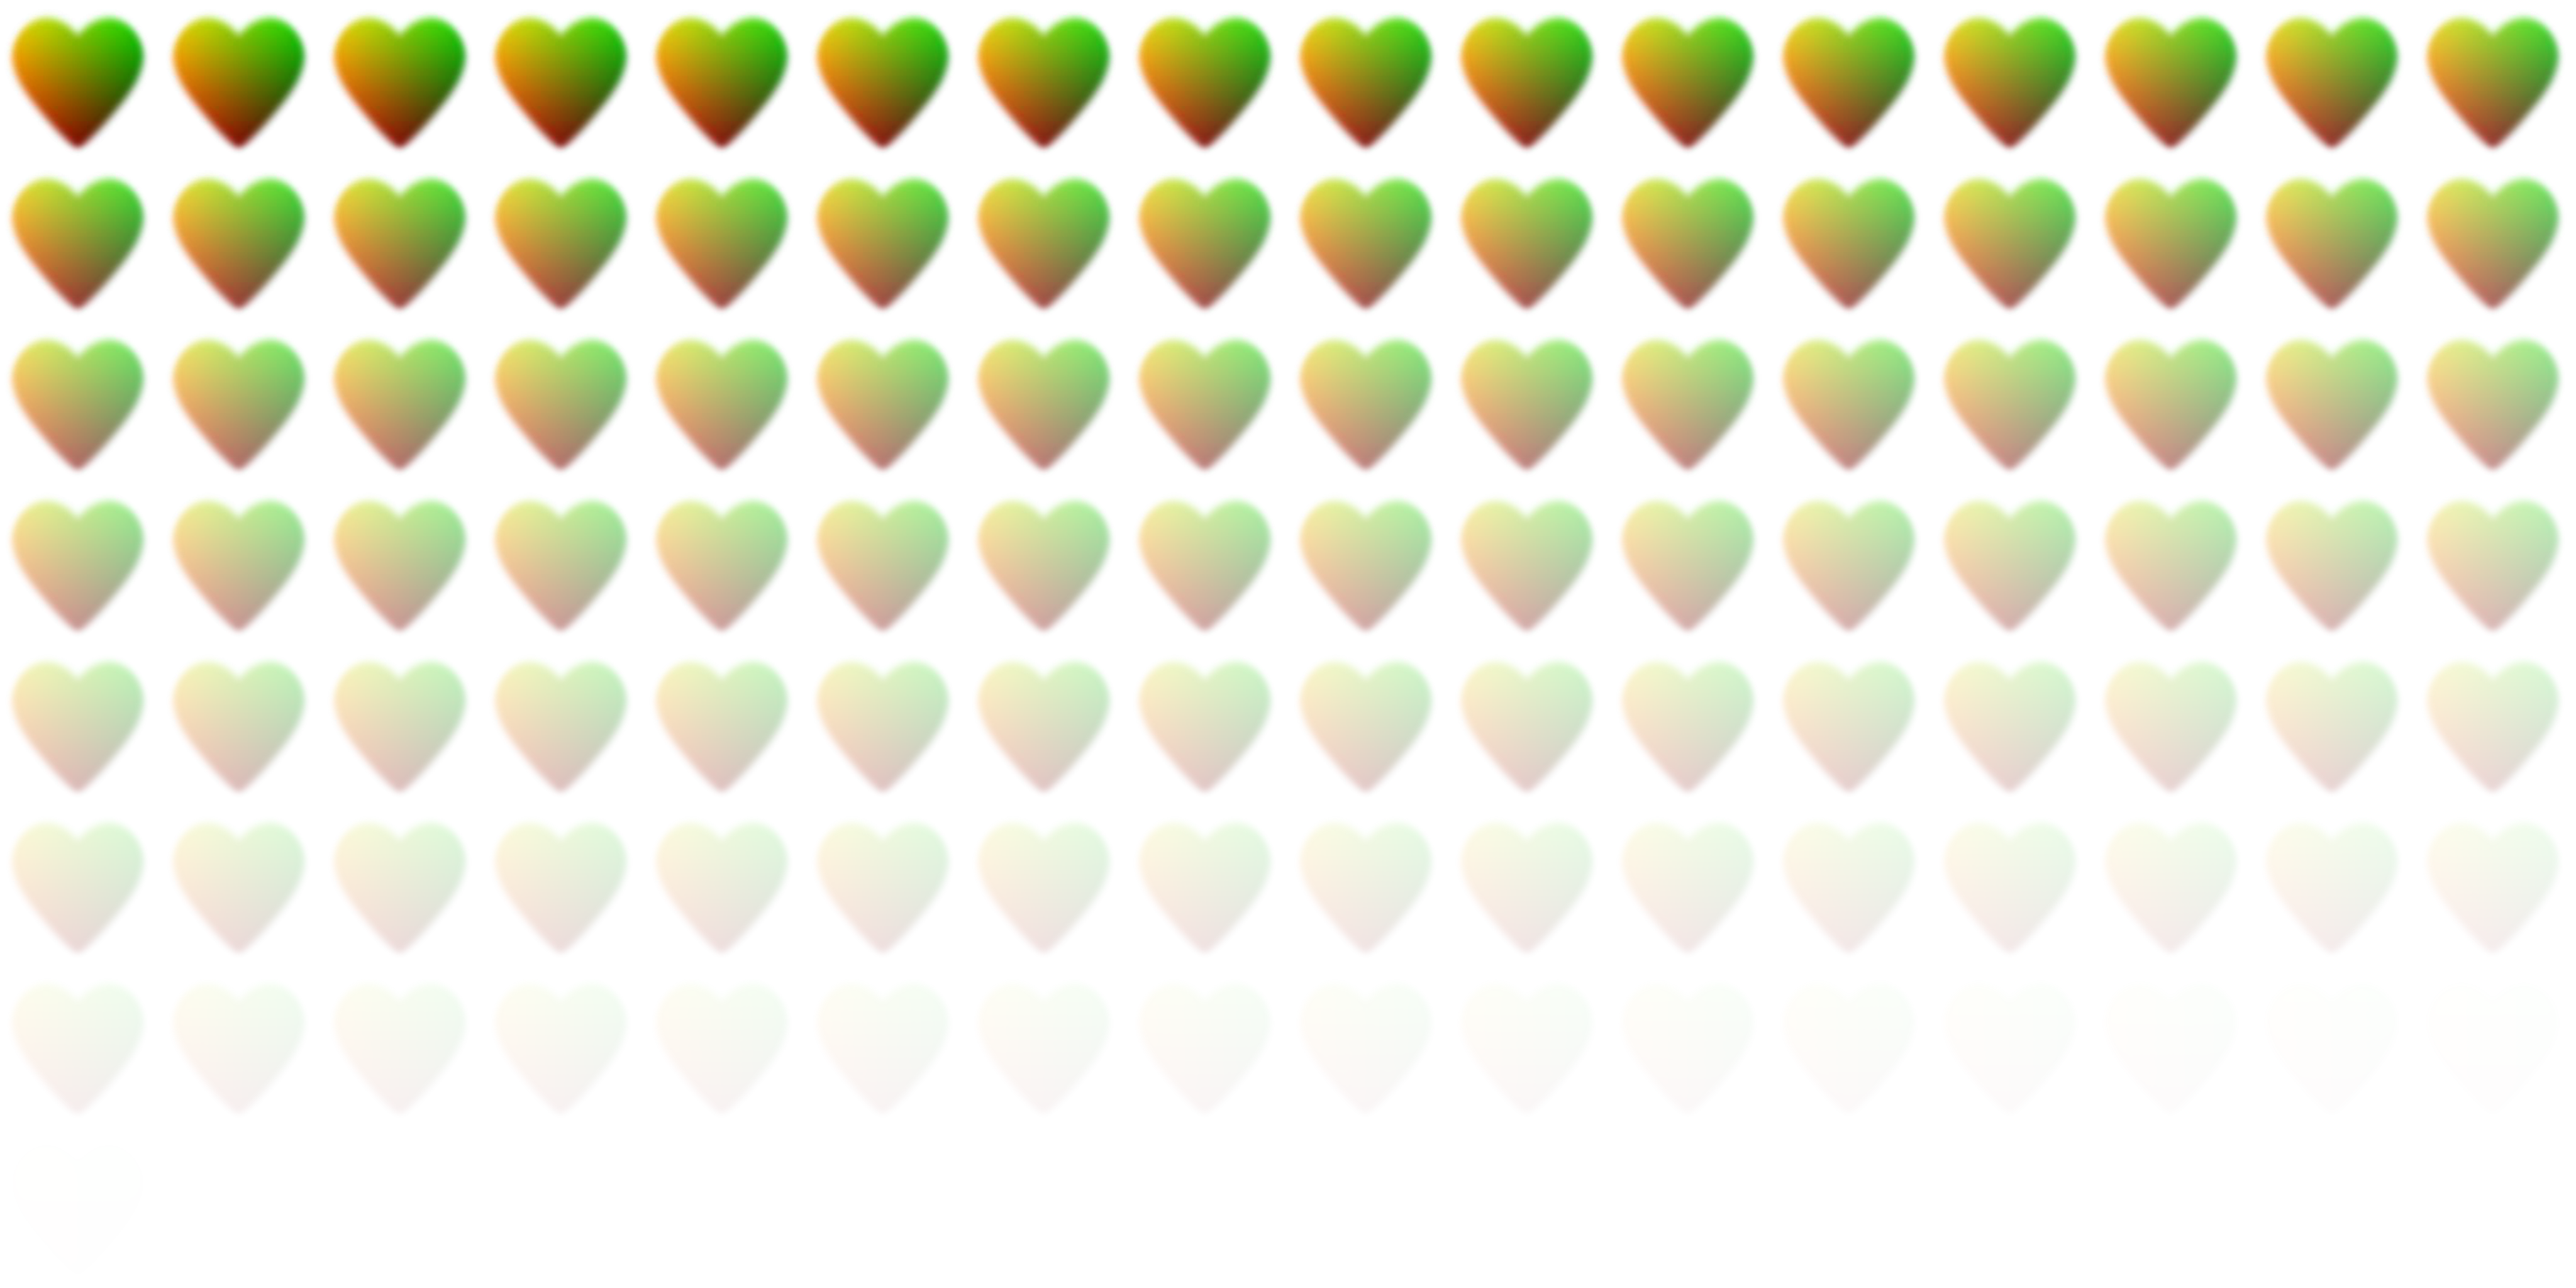
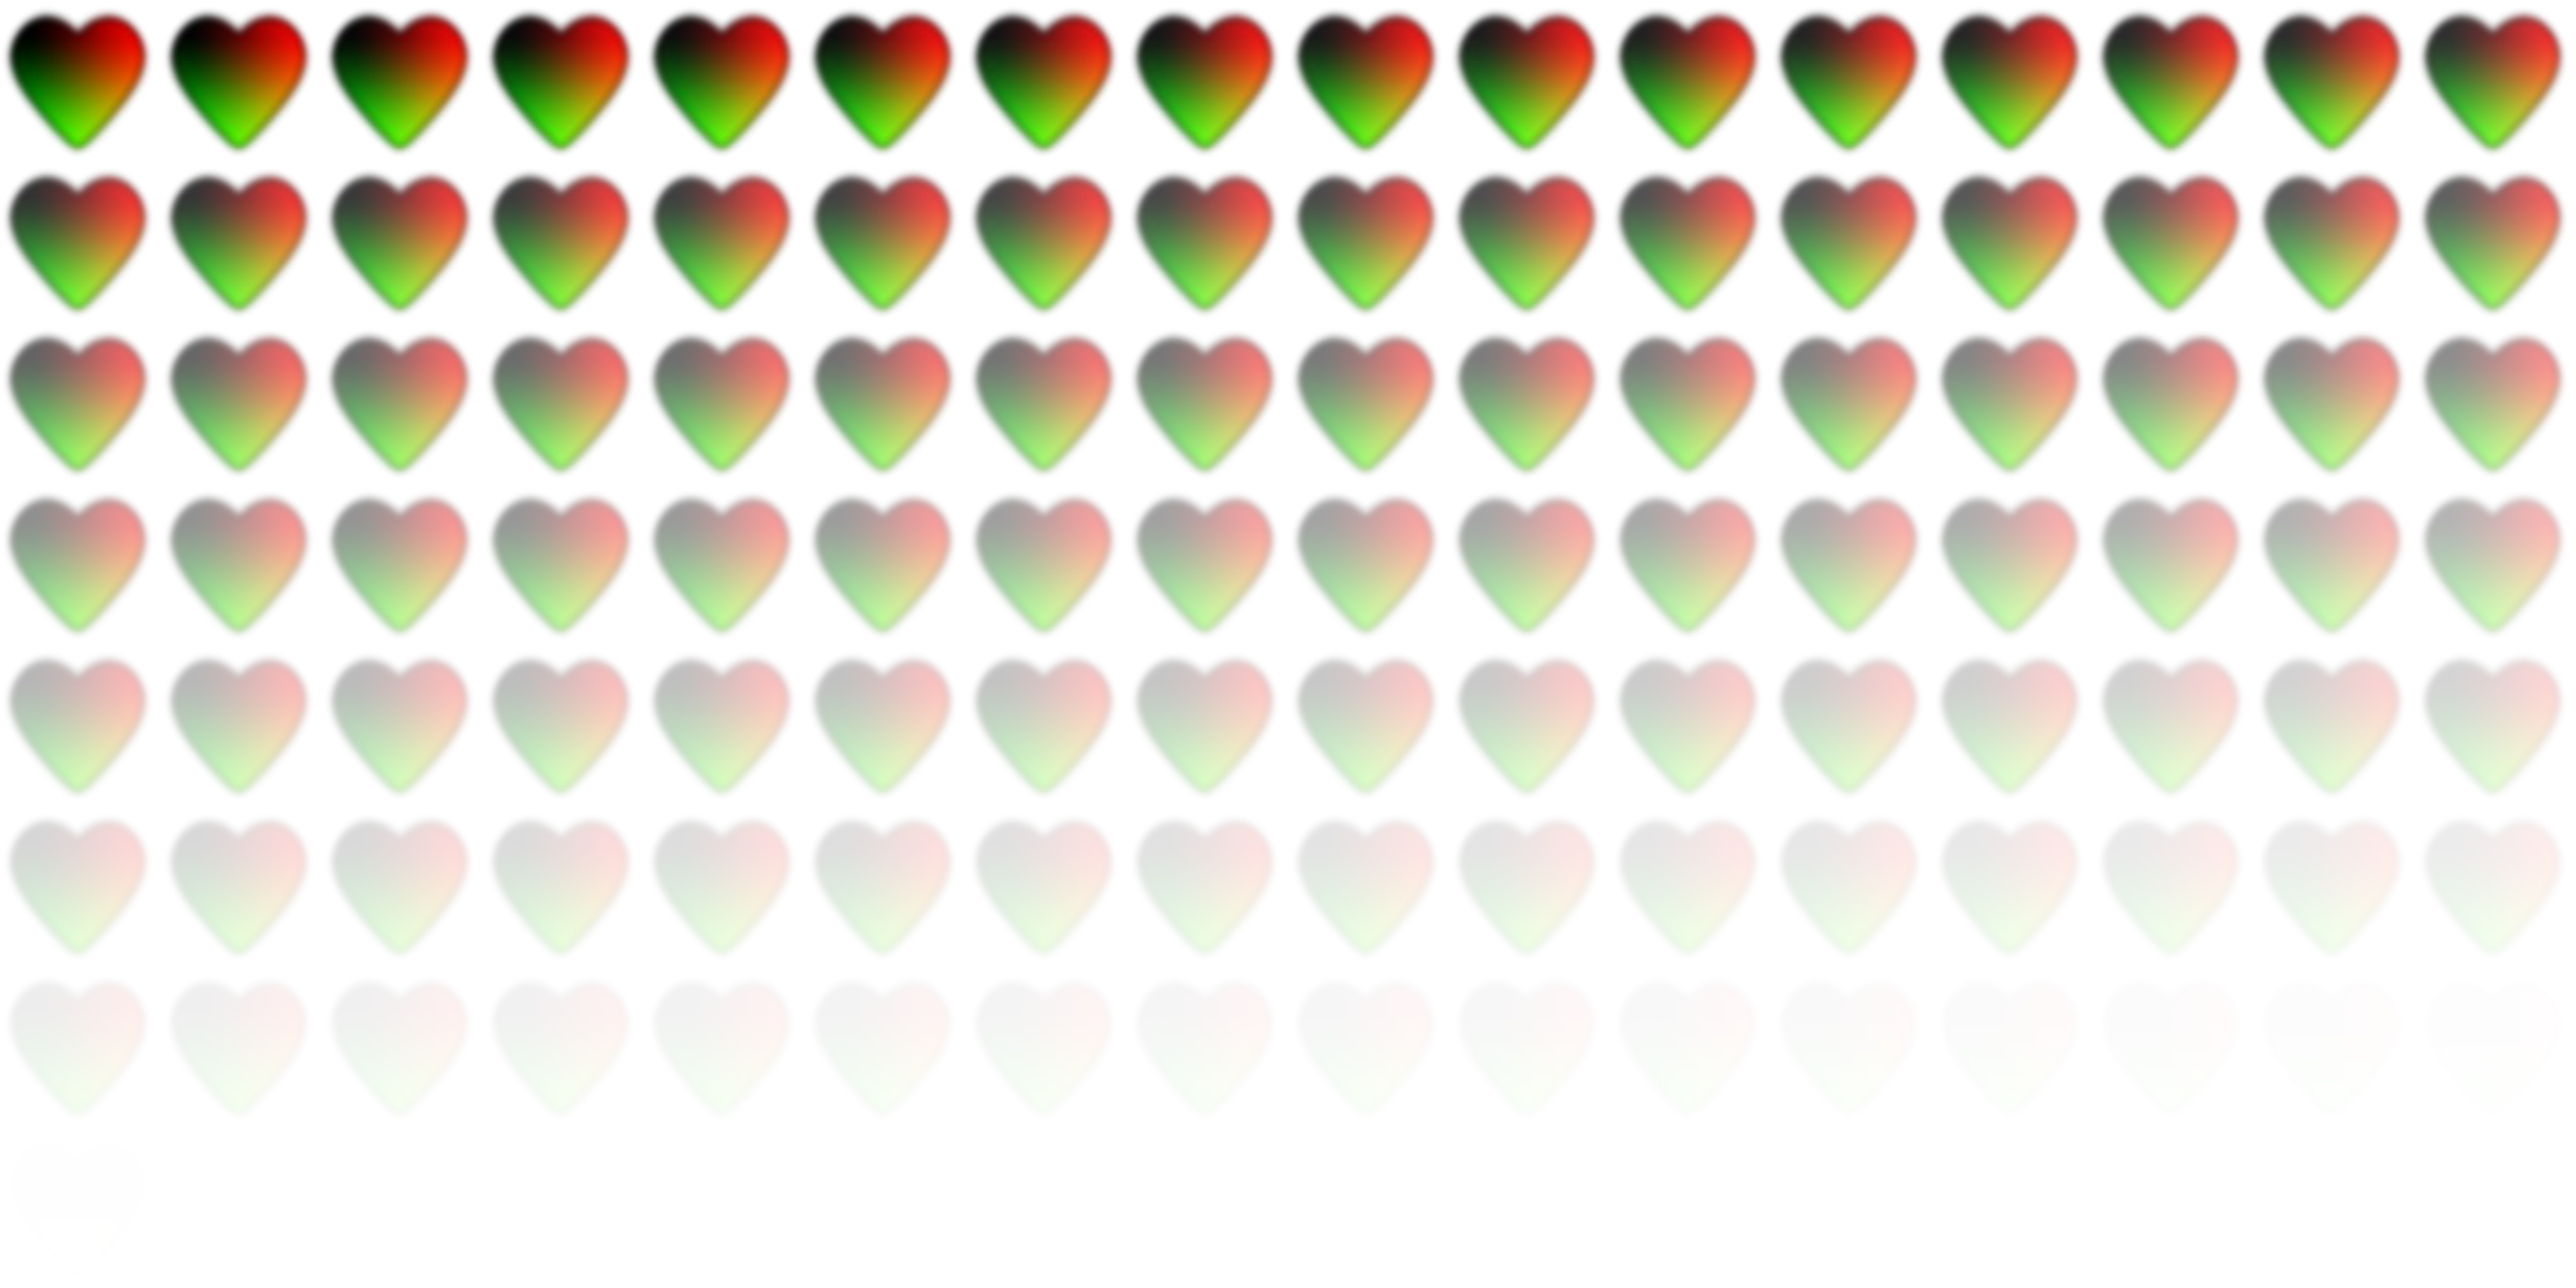
WIP

diff --git a/src_front/components/overlays/distortions/DistortionLiquid.vue b/src_front/components/overlays/distortions/DistortionLiquid.vue
@@ -5,11 +5,15 @@
 
 <script lang="ts">
 import { Component, Prop } from 'vue-facing-decorator';
-import AbstractDistortion from './AbstractDistortion.vue';
+import AbstractDistortion, { type IDistortItem } from './AbstractDistortion.vue';
 import ripples from '@/assets/img/distortions/ripples_sh.png';
 import hearts from '@/assets/img/distortions/hearts_sh.png';
 import bubbles from '@/assets/img/distortions/bubbles_sh.png';
+import twirl from '@/assets/img/distortions/twirl_sh.png';
 import type { TwitchatDataTypes } from '@/types/TwitchatDataTypes';
+import gsap from 'gsap/all';
+import { Back } from 'gsap/all';
+import { Elastic } from 'gsap/all';
 
 @Component({
 	components:{},
@@ -24,13 +28,20 @@ export default class DistortionLiquid extends AbstractDistortion {
 	private heatEventHandler!:(event:{detail:{anonymous:boolean, x:number, y:number, uid:string, shift:boolean, alt:boolean, ctrl:boolean, testMode:boolean, login:string, page:string}}) => void;
 
 	public mounted():void {
-		super.initialize({cols:16, rows:8, uvScaleX:256/4096, uvScaleY:256/2048, frames:128, texture:bubbles});
+		// super.initialize({cols:1, rows:1, uvScaleX:256/256, uvScaleY:256/256, frames:1, texture:twirl});
+		super.initialize({cols:16, rows:8, uvScaleX:256/4096, uvScaleY:256/2048, frames:128, texture:ripples});
 		this.clickHandler = (e:MouseEvent) => this.onClick(e);
 		document.body.addEventListener("click", this.clickHandler);
 		
 		this.heatEventHandler = (e) => this.onHeatClick(e);
 		//@ts-ignore
 		window.addEventListener("heat-click", this.heatEventHandler);
+	}
+
+	public beforeUnmount():void {
+		document.body.removeEventListener("click", this.clickHandler);
+		//@ts-ignore
+		window.removeEventListener("heat-click", this.heatEventHandler);
 	}
 
 	public onClick(e:MouseEvent):void {
@@ -41,6 +52,25 @@ export default class DistortionLiquid extends AbstractDistortion {
 	private onHeatClick(event:{detail:{anonymous:boolean, x:number, y:number, uid:string, shift:boolean, alt:boolean, ctrl:boolean, testMode:boolean, login:string, page:string}}):void {
 		console.log("CLICK");
 	}
+
+	// protected buildItem(px?:number, py?:number):IDistortItem {
+	// 	const item = super.buildItem(px, py);
+	// 	item.alphaSpeed = 0;
+	// 	item.frame = Math.round(Math.random()*50);
+	// 	item.scale = .001;
+	// 	item.scaleSpeed = 0;
+	// 	item.angle = Math.PI;
+	// 	gsap.to(item, {scale:5 + Math.random()*5, angle:0, ease:Elastic.easeOut, duration:1});
+	// 	gsap.to(item, {scale:0, angle:Math.PI, ease:"back.in(5)", duration:.5, delay:5, immediateRender:false});
+	// 	return item;
+	// }
+	// protected computeItem(item:IDistortItem):boolean {
+	// 	return item.scale > 0;
+	// 	// item.scaleSpeed *= .995;
+	// 	// item.scale += item.scaleSpeed;
+	// 	// item.frame += item.alphaSpeed;
+	// 	// return true;// (item.frame >= this.shCols*this.shRows && item.alphaSpeed > 0);
+	// }
 	
 }
 </script>

diff --git a/src_front/components/overlays/distortions/AbstractDistortion.vue b/src_front/components/overlays/distortions/AbstractDistortion.vue
@@ -30,7 +30,7 @@ export default class AbstractDistortion extends Vue {
 	protected initialize(spritesheet:{cols:number, rows:number, uvScaleX:number, uvScaleY:number, frames:number, texture:string}):void{
 		this.shCols = spritesheet.cols;
 		this.shRows = spritesheet.rows;
-		
+		this.frames = spritesheet.frames;
 		this.uvScaleX = spritesheet.uvScaleX;
 		this.uvScaleY = spritesheet.uvScaleY;
 
@@ -115,7 +115,7 @@ export default class AbstractDistortion extends Vue {
 		// for (let i = 0; i < 10; i++) {
 			// addItem();
 		// }
-		this.addItem(this.buildItem());
+		// this.addItem(this.buildItem());
 		this.renderFrame();
 	}
 
@@ -128,13 +128,16 @@ export default class AbstractDistortion extends Vue {
 		
 		for (let i = 0; i < this.items.length; i++) {
 			const item = this.items[i];
-			item.scaleSpeed *= .995;
-			item.scale += item.scaleSpeed;
-			item.frame += item.alphaSpeed;
-			const frame = Math.max(0, Math.floor(item.frame));
+			if(!this.computeItem(item)) {
+				instancedMesh.count --;
+				this.items.splice(i, 1);
+				i--;
+				continue;
+			}
 			// item.angle += Math.PI/200;
-			// rotationMatrix.makeRotationZ(item.angle);
+			rotationMatrix.makeRotationZ(item.angle);
 			
+			const frame = Math.max(0, Math.min(this.frames-1, Math.floor(item.frame)));
 			if(frame <= 0 && item.alphaSpeed < 0) {
 				item.alphaSpeed = -item.alphaSpeed*.5;
 			}
@@ -148,11 +151,6 @@ export default class AbstractDistortion extends Vue {
 			instancedMesh.geometry.attributes.uvOffset.setXY(i, (frame%this.shCols)*this.uvScaleX, 1-offsetUvY - this.uvScaleY - Math.floor(frame/this.shCols)*this.uvScaleY);
 
 			instancedMesh.setMatrixAt(i, matrix);
-			if(item.frame >= this.shCols*this.shRows && item.alphaSpeed > 0) {
-				instancedMesh.count --;
-				this.items.splice(i, 1);
-				i--;
-			}
 		}
 		
 		instancedMesh.instanceMatrix.needsUpdate = true;
@@ -160,6 +158,13 @@ export default class AbstractDistortion extends Vue {
 
 		// Render the scene
 		renderer.render(scene, camera);
+	}
+
+	protected computeItem(item:IDistortItem):boolean {
+		item.scaleSpeed *= .995;
+		item.scale += item.scaleSpeed;
+		item.frame += item.alphaSpeed;
+		return !(item.frame >= this.shCols*this.shRows && item.alphaSpeed > 0);
 	}
 
 	protected buildItem(px?:number, py?:number):IDistortItem {

diff --git a/src_front/components/params/contents/obs/OBSBrowserSources.vue b/src_front/components/params/contents/obs/OBSBrowserSources.vue
@@ -6,7 +6,7 @@
 			:loading="refreshingAll">{{ $t("obs.browser_sources_refresh_all") }}</Button>
 
 		<div class="card-item row" v-for="entry in sources" ref="row">
-			<p>{{ entry.source.sourceName }}</p>
+			<p>{{ entry.source.inputName }}</p>
 			<Button :icon="entry.success? 'checkmark' : 'refresh'"
 				@click="refreshSource(entry)"
 				:primary="entry.success"
@@ -17,7 +17,7 @@
 
 <script lang="ts">
 import Button from '@/components/Button.vue';
-import OBSWebsocket, { type OBSSourceItem } from '@/utils/OBSWebsocket';
+import OBSWebsocket, { type OBSInputItem } from '@/utils/OBSWebsocket';
 import Utils from '@/utils/Utils';
 import gsap from 'gsap/all';
 import { Component, Vue } from 'vue-facing-decorator';
@@ -31,10 +31,11 @@ import { Component, Vue } from 'vue-facing-decorator';
 export default class OBSBrowserSources extends Vue {
 
 	public refreshingAll:boolean = false;
-	public sources:{loading:boolean, success:boolean, source:OBSSourceItem}[] = [];
+	public sources:{loading:boolean, success:boolean, source:OBSInputItem}[] = [];
 
 	public async mounted():Promise<void> {
-		const sources = await OBSWebsocket.instance.getSources(false);
+		const res = await OBSWebsocket.instance.socket.call("GetInputList", {inputKind:"browser_source"});
+		const sources = (res.inputs as unknown) as OBSInputItem[];
 		this.sources = sources
 						.filter(v=> v.inputKind == "browser_source")
 						.map(v=>{
@@ -49,7 +50,7 @@ export default class OBSBrowserSources extends Vue {
 
 	public async refreshSource(entry:typeof this.sources[0]):Promise<void> {
 		entry.loading = true;
-		await OBSWebsocket.instance.socket.call("PressInputPropertiesButton", {inputName:entry.source.sourceName, propertyName:"refreshnocache"});
+		await OBSWebsocket.instance.socket.call("PressInputPropertiesButton", {inputName:entry.source.inputName, propertyName:"refreshnocache"});
 		await Utils.promisedTimeout(200);
 		entry.loading = false;
 		entry.success = true;

diff --git a/src_front/components/params/contents/account/ParamsAccountPatreon.vue b/src_front/components/params/contents/account/ParamsAccountPatreon.vue
@@ -10,7 +10,7 @@
 			</div>
 			<i18n-t class="info" scope="global" tag="div" keypath="premium.early_donor2">
 				<template #LINK>
-					<a href="https://www.patreon.com/bePatron?c=9093199" target="_blank">{{ $t("premium.early_donor2_link") }}</a>
+					<a href="https://www.patreon.com/durss" target="_blank">{{ $t("premium.early_donor2_link") }}</a>
 				</template>
 			</i18n-t>
 		</div>
@@ -22,7 +22,7 @@
 			</div>
 			<i18n-t class="info" scope="global" tag="div" keypath="premium.early_donor2">
 				<template #LINK>
-					<a href="https://www.patreon.com/bePatron?c=9093199" target="_blank">{{ $t("premium.early_donor2_link") }}</a>
+					<a href="https://www.patreon.com/durss" target="_blank">{{ $t("premium.early_donor2_link") }}</a>
 				</template>
 			</i18n-t>
 		</div>
@@ -44,7 +44,7 @@
 		<template v-if="(!connected || (connected && !isMember)) && !isEarlyDonor">
 			<i18n-t scope="global" tag="div" keypath="patreon.info">
 				<template #LINK>
-					<a href="https://www.patreon.com/bePatron?c=9093199" target="_blank">{{ $t("patreon.info_link") }}</a>
+					<a href="https://www.patreon.com/durss" target="_blank">{{ $t("patreon.info_link") }}</a>
 				</template>
 			</i18n-t>
 			

diff --git a/src_front/components/params/contents/ParamsSponsor.vue b/src_front/components/params/contents/ParamsSponsor.vue
@@ -38,7 +38,7 @@
 			:subtitle="$t('sponsor.premium_subtitle')">
 				<p>{{ $t("sponsor.premium_details") }}</p>
 				<SponsorTable class="sponsorTable" />
-				<Button icon="patreon" class="patreonBt" href="https://www.patreon.com/bePatron?c=9093199" target="_blank" type="link" premium>{{ $t("sponsor.donate_patreonBt") }}</Button>
+				<Button icon="patreon" class="patreonBt" href="https://www.patreon.com/durss" target="_blank" type="link" premium>{{ $t("sponsor.donate_patreonBt") }}</Button>
 			</ToggleBlock>
 
 			<Button v-for="link in links" type="link" ref="button"
@@ -87,7 +87,7 @@ export default class ParamsSponsor extends Vue implements IParameterContent {
 
 	public links:{url:string, icon:string, key:string}[] = [
 		{url:"https://paypal.me/durss", icon:"paypal", key:"paypal"},
-		{url:"https://www.patreon.com/bePatron?c=9093199", icon:"patreon", key:"patreon"},
+		{url:"https://www.patreon.com/durss", icon:"patreon", key:"patreon"},
 		{url:"https://ko-fi.com/durss", icon:"kofi", key:"kofi"},
 		{url:"https://www.buymeacoffee.com/durss", icon:"coffee", key:"coffee"},
 		{url:"https://github.com/sponsors/Durss", icon:"github", key:"github"},

diff --git a/src_front/components/params/contents/overlays/heat/HeatDistortParams.vue b/src_front/components/params/contents/overlays/heat/HeatDistortParams.vue
@@ -25,6 +25,7 @@
 			
 			<OverlayInstaller type="distort"
 			orderToBottom
+			:css="'html, body{ background-color:#808000;}'"
 			:id="modelValue.id"
 			:sourceSuffix="sourceSuffix"
 			:sourceTransform="{positionX:3000, positionY:3000}"
@@ -153,7 +154,8 @@ export default class HeatDistortParams extends Vue {
 		// await OBSWebsocket.instance.socket.call('SetSceneItemIndex',{sceneName:"Scene 3", sceneItemId:res.sceneItemId, sceneItemIndex:0});
 		// res.sceneItemIds
 		// await OBSWebsocket.instance.socket.call("SetSceneItemTransform", {sceneItemId:res.sceneItemId, sceneName:"Scene 3", sceneItemTransform:{positionX:3000, positionY:3000}});
-		const res = await OBSWebsocket.instance.socket.call("GetSourceFilterList", {sourceName:"Image"});
+		// const res = await OBSWebsocket.instance.socket.call("GetSourceFilterList", {sourceName:"Image"});
+		const res = await OBSWebsocket.instance.socket.call("GetInputSettings", {inputName:"Twitchat_distort (Camera)"});
 		console.log(res);
 	}
 

diff --git a/src_front/utils/OBSWebsocket.ts b/src_front/utils/OBSWebsocket.ts
@@ -804,7 +804,7 @@ export default class OBSWebsocket extends EventDispatcher {
 	 * 
 	 * @returns if an existing source has been found
 	 */
-	public async createBrowserSource(url:string, sourceName:string, sourceTransform:Partial<SourceTransform>, sceneName?:string, orderToBottom:boolean = false):Promise<boolean> {
+	public async createBrowserSource(url:string, sourceName:string, sourceTransform:Partial<SourceTransform>, sceneName?:string, orderToBottom:boolean = false, css:string = ""):Promise<boolean> {
 		//List all existing OBS sources
 		const inputList = await this.obs.call("GetInputList", {inputKind:"browser_source"});
 		const urlObj = new URL(url);
@@ -841,6 +841,7 @@ export default class OBSWebsocket extends EventDispatcher {
 		//Create a new pre-configured browser source
 		const videoSettings = await this.obs.call("GetVideoSettings");
 		const inputSettings = {
+			css,
 			fps: 60,
 			fps_custom: true,
 			width: sourceTransform?.width || videoSettings.baseWidth,

diff --git a/src_back/controllers/PatreonController.ts b/src_back/controllers/PatreonController.ts
@@ -18,6 +18,7 @@ export default class PatreonController extends AbstractController {
 	private tokenRefresh!:NodeJS.Timeout;
 	private smsWarned:boolean = false;
 	private patreonApiDown:boolean = false;
+	private webhookDebounce:NodeJS.Timeout|null = null;
 
 	//If a user chooses to make a "custom pledge", they're not attributed to any
 	//actual tier. This represents the minimum amount (in cents) they should give
@@ -348,7 +349,12 @@ export default class PatreonController extends AbstractController {
 		response.status(200);
 		response.send("OK");
 		try {
-			this.refreshPatrons(event != "members:create");
+			//Patreon sometimes sends double create webhook events.
+			//Debounce it to avoid concurrent patrons updates
+			if(this.webhookDebounce)clearTimeout(this.webhookDebounce);
+			this.webhookDebounce = setTimeout(() => {
+				this.refreshPatrons(event != "members:create");
+			}, 2000);
 			this.patreonApiDown = false;
 		}catch(error) {
 			this.patreonApiDown = true;

diff --git a/src_front/components/params/contents/overlays/OverlayInstaller.vue b/src_front/components/params/contents/overlays/OverlayInstaller.vue
@@ -45,6 +45,9 @@ export default class OverlayInstaller extends Vue {
 	@Prop({type:String, default:""})
 	public id!:string;
 
+	@Prop({type:String, default:""})
+	public css!:string;
+
 	@Prop()
 	public type!:TwitchatDataTypes.OverlayTypes;
 
@@ -87,7 +90,7 @@ export default class OverlayInstaller extends Vue {
 		clearTimeout(this.successTO);
 		let name = "Twitchat_"+this.type;
 		if(this.sourceSuffix) name += this.sourceSuffix;
-		this.isExistingSource = await OBSWebsocket.instance.createBrowserSource(this.localURL, name, this.sourceTransform, this.sceneName, this.orderToBottom !== false);
+		this.isExistingSource = await OBSWebsocket.instance.createBrowserSource(this.localURL, name, this.sourceTransform, this.sceneName, this.orderToBottom !== false, this.css);
 		this.showSuccess = true;
 		if(!this.isExistingSource) {
 			this.successTO = setTimeout(()=> {

diff --git a/src_front/utils/Config.ts b/src_front/utils/Config.ts
@@ -14,7 +14,7 @@ export default class Config {
 	 * Twitch released a broken API.
 	 * This flag allows to disable everything related to this until they fix it
 	 */
-	public AD_API_AVAILABLE = false;
+	public AD_API_AVAILABLE = true;
 
 	/**
 	 * Port for the twitchat's server services
